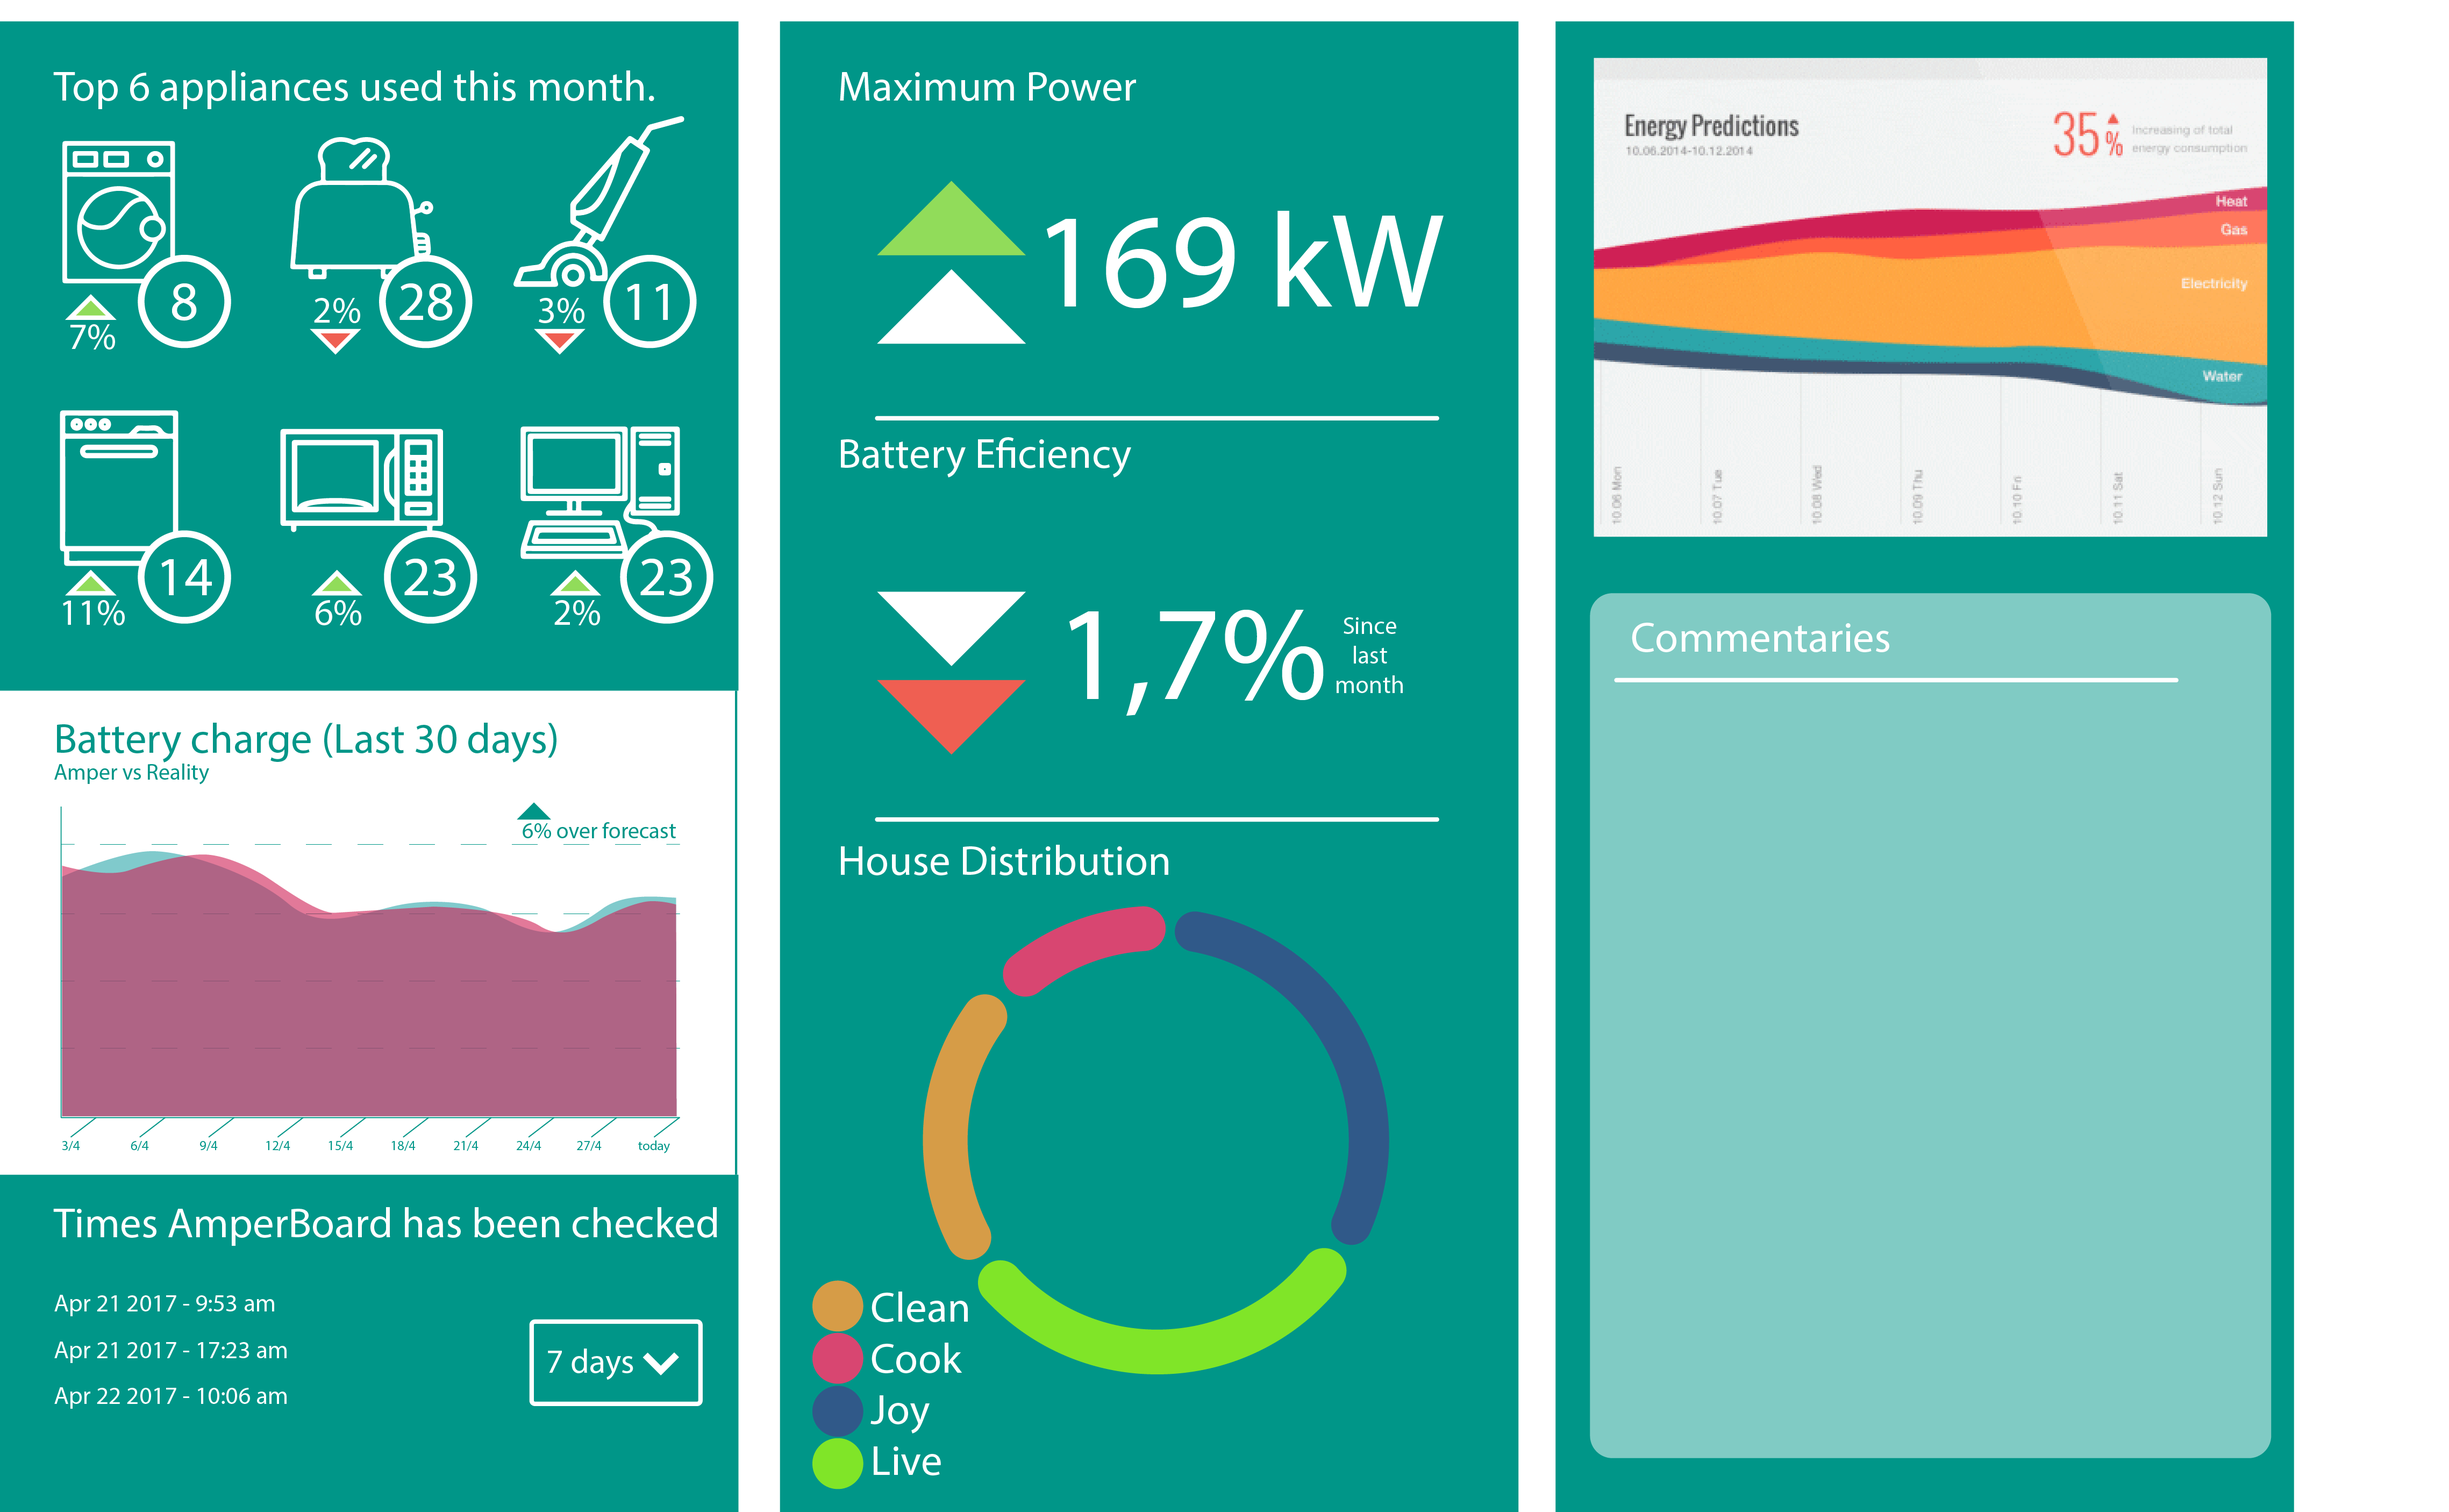
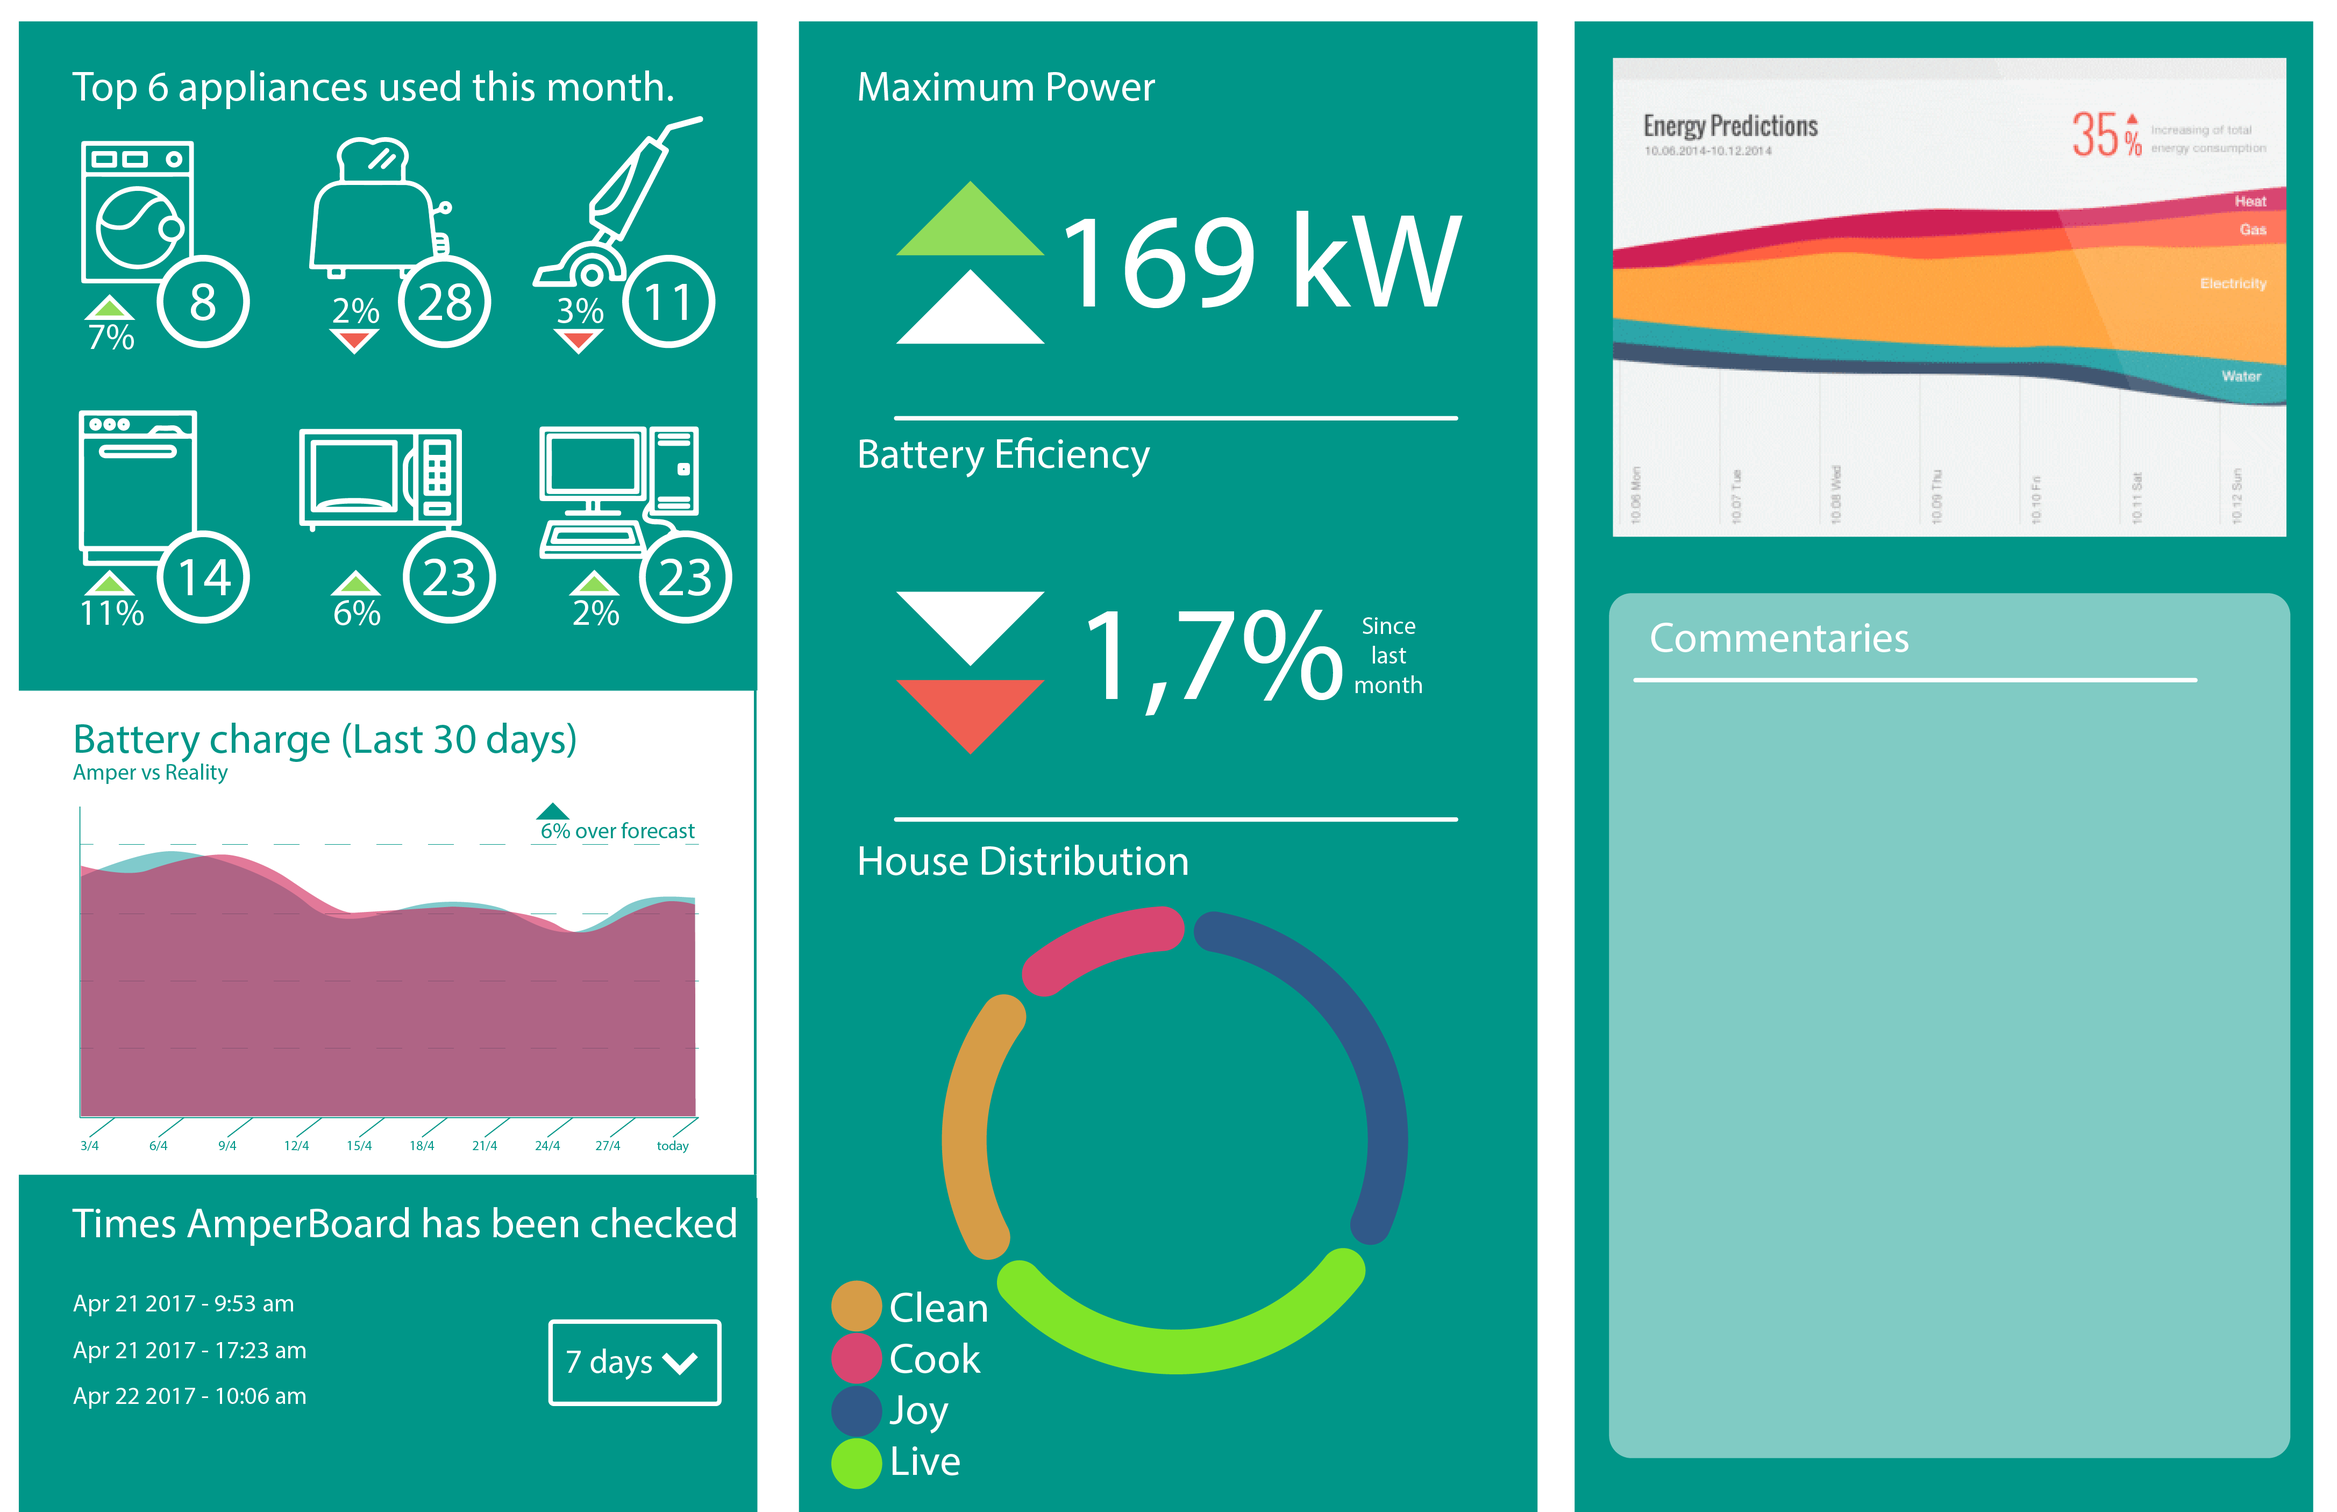
Updated

Changed region(s): [[0.0, 0.0, 0.994, 1.0], [0.0311, 0.4641, 0.2485, 0.526]]

diff --git a/index.html b/index.html
@@ -92,10 +92,8 @@
 
     <div class="estimation"></div>
   </section>
-  <section id="test3" class="col s12">
-    <div class="row">
-      <img class="logo" src="public/dashboard.png" />
-    </div>
+  <section id="test3" class="dashboard">
+    <img src="public/dashboard.png" />
   </section>
   <section id="test4" class="col s12">
     <div class="row">
@@ -103,32 +101,32 @@
         <div class="row">
 
       <form class="col s12">
-                  <h3 class="header">Settings</h2>
+        <h3 class="header">Settings</h2>
         <div class="row">
 
           <div class="input-field col s12 m6 ">
-            <input id="latitude" type="text">
+            <input id="latitude" type="text" value="48">
             <label for="latitude">Latitude</label>
           </div>
           <div class="input-field col s12 m6">
-            <input value="0" id="azimut" type="number">
+            <input value="0" id="azimut" type="number" value="0">
             <label for="azimut">AZIMUT</label>
           </div>
         </div>
         <div class="row">
           <div class="input-field col s12 m6">
-            <input id="latitude" type="number">
+            <input id="latitude" type="number" value="90">
             <label for="latitude">Angle</label>
           </div>
           <div class="input-field col s12 m6">
             <input value="0.13" id="azimut" type="number">
-            <label for="azimut">Grado de reflectancia</label>
+            <label for="azimut">Reflectance angle</label>
           </div>
         </div>
         <div class="row">
           <div class="input-field col s12 m6">
-            <input id="m2" type="number">
-            <label for="password">m2</label>
+            <input id="m2" type="number" value="70">
+            <label for="m2">m2</label>
           </div>
         </div>
         <button class="btn waves-effect waves-light right" type="submit" name="action">Save

diff --git a/style.css b/style.css
@@ -6,6 +6,10 @@ body {
   background: #424242;
 }
 
+input {
+  color: #333!important;
+}
+
 nav {
   background: #45c1b5;
   position: relative;
@@ -143,6 +147,15 @@ h2,
 .plan {
   margin: 0 10px;
   width: calc(100% - 30px);
+}
+
+.dashboard {
+  width: 100%;
+  max-width: 100%;
+}
+
+.dashboard img {
+  width: 100%;
 }
 
 .plan .point {

diff --git a/javascript.js b/javascript.js
@@ -87,7 +87,7 @@ get('/reports/past_day', data => {
       obj[x] = {
         x: -x,
         y: range.reduce((total, item) => {
-          return total + item.consumption;
+          return total + Math.abs(item.consumption);
         }, 0)
       };
       return obj;
